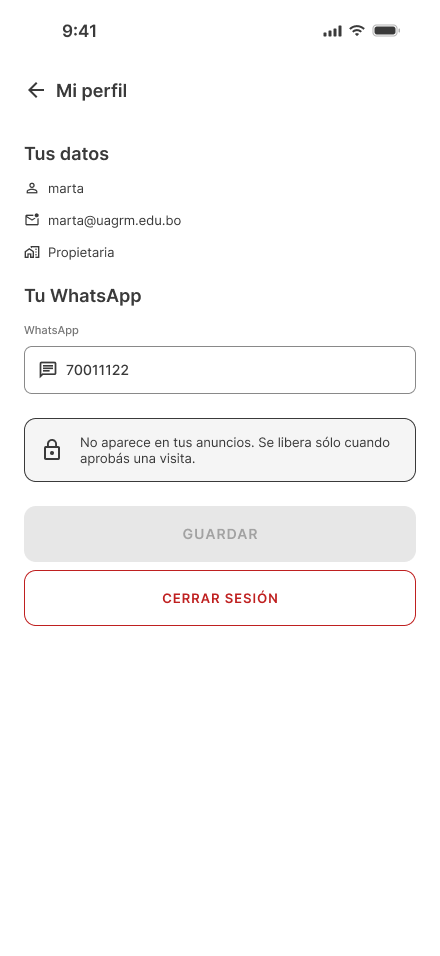
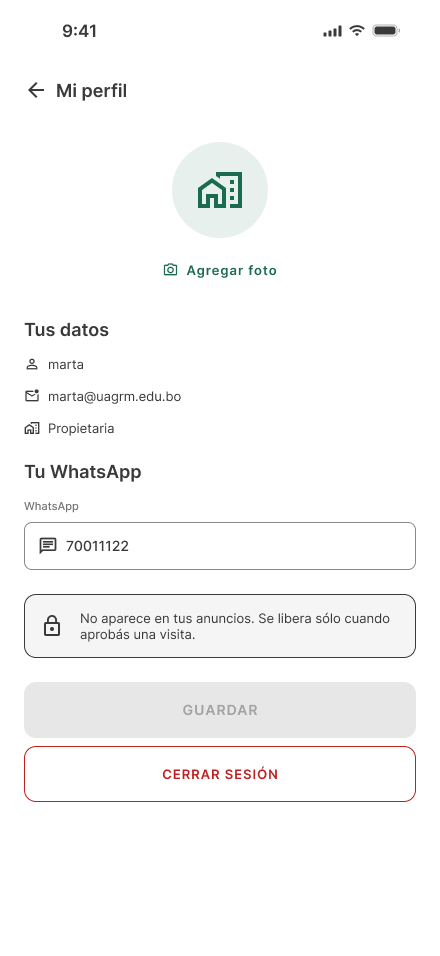
docs: pantallas nuevas en tres flujos, láminas y documentos al día
- Acceso (flujo-v0.3): Mi perfil con la foto y la 12 Cambiar foto; la
  tabla de las tres filas y lo que queda pendiente (quién más ve la foto).
- Inquilina (flujo-v0.2): Estado de solicitudes (08), Solicitud rechazada
  (10), Sin solicitudes (12) y Sin resultados (04). La fila se renumera por
  momento: cada pantalla vacía va al lado de la que la origina.
- Gestión de solicitudes (flujo-v0.4): Solicitud cerrada (04), la bandeja
  con una cerrada, y Sin solicitudes pasa a ser la 05. La nota del WhatsApp
  ya no está en la rechazada ni en la cerrada.
- wireframes/: las PNG nuevas y las renumeradas, exportadas de Figma a
  440 × 956, con sus láminas y READMEs.
- README: conteos al día (12, 12 y 6 pantallas).

diff --git a/flujo/flujo-v0.3.md b/flujo/flujo-v0.3.md
@@ -44,13 +44,15 @@ flowchart TD
     D -->|Buscar| P9["<b>09.</b> Inicio con 2 módulos"]
     P8 -->|Toca su tarjeta| M["<b>10 / 11.</b> Mi perfil"]
     P9 -->|Toca su tarjeta| M
+    M -->|Agregar foto| FT["<b>12.</b> Cámara o galería<br/>y la foto sube"]
+    FT --> M
 
     classDef paso fill:#d9ead3,stroke:#38761d,color:#000
     classDef error fill:#f4cccc,stroke:#cc0000,color:#000
     classDef borde fill:#c9daf8,stroke:#1155cc,color:#000
     classDef otro fill:#fff2cc,stroke:#bf9000,color:#000
 
-    class L1,O1,O2,O3,R1,R2,P8,P9,M paso
+    class L1,O1,O2,O3,R1,R2,P8,P9,M,FT paso
     class E1 error
     class S,F borde
     class A,L2,D otro
@@ -73,7 +75,8 @@ Los números son los de las pantallas de la fila Principal en Figma.
 | 05 | Elige *Busco dónde alquilar* o *Quiero publicar* | Hasta que no elija, **el botón está apagado** | Es la decisión que define toda la app |
 | 06 / 07 | Completa usuario, **correo** y contraseña | Si eligió publicar, **aparece el campo de WhatsApp** con el aviso de que no se publica | El correo es con lo que se recupera la cuenta; el WhatsApp, el dato que el producto existe para proteger (evidencia 9) |
 | 08 / 09 | — | Inicio con **tres** módulos si publica, **dos** si busca | Acá empiezan los flujos v0.1 y v0.2 |
-| 10 / 11 | Toca su tarjeta de perfil | **Mi perfil**: usuario, correo y rol; la propietaria además cambia su WhatsApp. Ahí vive *Cerrar sesión* | Si Marta cambia de número, cada visita que apruebe daría uno que ya no sirve |
+| 10 / 11 | Toca su tarjeta de perfil | **Mi perfil**: su foto (o el ícono de su rol), usuario, correo y rol; la propietaria además cambia su WhatsApp. Ahí vive *Cerrar sesión* | Si Marta cambia de número, cada visita que apruebe daría uno que ya no sirve |
+| 12 | Toca *Agregar foto* | Una hoja con *Sacar una foto* y *Elegir de la galería*; si ya tiene una, también *Quitar foto*. Mientras sube se ve la elegida, y después aparece en la tarjeta del inicio | Es opcional: sin foto se ve el ícono del rol. Se guarda **sin la ubicación** donde se sacó, que en esta app suele ser la casa de la persona |
 
 **El paso 05 es el momento clave.** No es un campo más de un formulario: es la
 bifurcación del producto. Por eso se eligen las dos opciones explicadas con lo
@@ -90,9 +93,9 @@ contrario de lo que decide el paso 05.
 
 | Fila | Pantallas | Qué muestra |
 |---|---|---|
-| Principal | 11 | Cada pantalla en su estado normal, con los formularios vacíos |
-| Happy Path | 14 | Cuatro historias completas —entrar, recuperar la contraseña, crear cuenta (las dos) y cambiar el WhatsApp—, cada acción con el botón pulsado y su resultado |
-| Validaciones | 7 | Los errores: datos incorrectos, el enlace vencido, rol sin elegir, datos con error (usuario o correo ya tomados), sin conexión, WhatsApp incompleto y no se pudo guardar |
+| Principal | 12 | Cada pantalla en su estado normal, con los formularios vacíos y sin foto |
+| Happy Path | 19 | Cinco historias completas —entrar, recuperar la contraseña, crear cuenta (las dos), cambiar el WhatsApp y la foto (subirla, verla en el inicio y quitarla)—, cada acción con el botón pulsado y su resultado |
+| Validaciones | 10 | Los errores: datos incorrectos, el enlace vencido, rol sin elegir, datos con error (usuario o correo ya tomados), sin conexión, WhatsApp incompleto, no se pudo guardar, la foto que no sube, la que el servidor rechaza y la cámara que no abre |
 
 > **Diferencia con el código, a la fecha.** En Figma, *Elegir rol · sin elegir*
 > muestra debajo del botón apagado el motivo *"Elegí si vas a buscar o a
@@ -106,6 +109,9 @@ contrario de lo que decide el paso 05.
   si no, quien agarre el teléfono desbloqueado cambia el correo y después usa
   *recuperar contraseña* para quedarse con la cuenta.
 - **Cambiar de rol** sin crear otra cuenta.
+- **Que la otra parte vea la foto.** Hoy la ve sólo su dueña, en Mi perfil y en
+  el inicio. Mostrársela a quien pide una visita, o a quien publica, es entregar
+  un dato personal más antes de la aprobación: la decisión está pendiente.
 
 ---
 

diff --git a/wireframes/flujo-v0.2-inquilina/README.md b/wireframes/flujo-v0.2-inquilina/README.md
@@ -3,33 +3,49 @@
 **Integrantes:** Gabriel Mamani Sandoval, Daniel Joaquin Mamani Peña
 **Flujo:** [`flujo/flujo-v0.2.md`](../../flujo/flujo-v0.2.md) · **Figma:** página *Flujos*, sección *Flujo v0.3 — Inquilina*
 
-Ocho pantallas de 440 × 956, exportadas de la fila **Principal** del archivo de
+Doce pantallas de 440 × 956, exportadas de la fila **Principal** del archivo de
 Figma. Los caminos completos (*Happy Path*) y los errores (*Validaciones*) están
 en las otras dos filas de la misma sección.
 
-![Las ocho pantallas del flujo](flujo-completo.png)
+![Las doce pantallas del flujo](flujo-completo.png)
 
 | # | Archivo | Momento de la tarea |
 |---|---|---|
 | 01 | [`01 Inicio.png`](01%20Inicio.png) | Entra y elige qué va a hacer |
 | 02 | [`02 Buscar.png`](02%20Buscar.png) | Pone sus filtros: precio, tipo, mascotas, minutos |
 | 03 | [`03 Resultados.png`](03%20Resultados.png) | Ve los resultados ordenados por cercanía |
-| 04 | [`04 Anuncio.png`](04%20Anuncio.png) | **Decide si le sirve o lo descarta** |
-| 05 | [`05 Solicitar visita.png`](05%20Solicitar%20visita.png) | Acepta las condiciones y pide la visita |
-| 06 | [`06 Solicitud enviada.png`](06%20Solicitud%20enviada.png) | Queda a la espera de la respuesta |
-| 07 | [`07 Contacto liberado.png`](07%20Contacto%20liberado.png) | El propietario aprobó: aparece el contacto |
-| 08 | [`08 Solicitud cerrada.png`](08%20Solicitud%20cerrada.png) | El cuarto se alquiló mientras esperaba |
+| 04 | [`04 Sin resultados.png`](04%20Sin%20resultados.png) | Ningún cuarto cumple: lo dice y sugiere ampliar |
+| 05 | [`05 Anuncio.png`](05%20Anuncio.png) | **Decide si le sirve o lo descarta** |
+| 06 | [`06 Solicitar visita.png`](06%20Solicitar%20visita.png) | Acepta las condiciones y pide la visita |
+| 07 | [`07 Solicitud enviada.png`](07%20Solicitud%20enviada.png) | Queda a la espera de la respuesta |
+| 08 | [`08 Estado de solicitudes.png`](08%20Estado%20de%20solicitudes.png) | Vuelve desde el Inicio a ver en qué quedó cada una |
+| 09 | [`09 Contacto liberado.png`](09%20Contacto%20liberado.png) | El propietario aprobó: aparece el contacto |
+| 10 | [`10 Solicitud rechazada.png`](10%20Solicitud%20rechazada.png) | El propietario dijo que no |
+| 11 | [`11 Solicitud cerrada.png`](11%20Solicitud%20cerrada.png) | El cuarto se alquiló mientras esperaba |
+| 12 | [`12 Sin solicitudes.png`](12%20Sin%20solicitudes.png) | Todavía no pidió ninguna visita |
 
-## Cómo leer la 04
+Cada pantalla que no tiene nada para mostrar va al lado de la que la origina:
+*Sin resultados* después de *Resultados*, y *Sin solicitudes* al final de lo que
+sale de *Estado de solicitudes*.
+
+## Cómo leer la 05
 
 Es la pantalla que decide el producto, y ya incluye la corrección que salió de
 la prueba con una usuaria (ver [`docs/decision-clase-05.md`](../../docs/decision-clase-05.md)):
 el **precio final** domina, los servicios incluidos van pegados a él —también el
 que *no* está incluido, que fue lo que obligó a la usuaria a preguntar *"¿cuánto
-es con luz?"*— y **no hay ningún contacto**: el teléfono recién aparece en la 07,
+es con luz?"*— y **no hay ningún contacto**: el teléfono recién aparece en la 09,
 después de la aprobación.
 
-## La 08, nueva con el flujo v0.5
+## Cómo leer la 08
+
+Es la puerta de *Estado de solicitudes*, el segundo módulo del Inicio. Cada
+tarjeta dice qué anuncio, cuándo la mandó y **en qué quedó**, con la misma
+etiqueta de color que ve Marta del otro lado. Las más nuevas van primero, y
+tocar una abre su estado: la 07 si sigue pendiente, la 09, la 10 o la 11 si ya
+se resolvió. Sin solicitudes, la 12 lo dice en vez de mostrar una lista vacía.
+
+## La 11, nueva con el flujo v0.5
 
 Antes, si Marta marcaba el cuarto como alquilado, la solicitud de Andrea quedaba
 *pendiente* para siempre: la evidencia 5 (*"uno ya estaba alquilado"*) pasando

diff --git a/README.md b/README.md
@@ -41,15 +41,15 @@ El proceso de búsqueda y oferta de alquileres genera una enorme pérdida de tie
 |---|---|
 | [Persona — Andrea](persona/persona-v0.2.md) | Estudiante de provincia, con un gato |
 | [App map](appmap/appmap-v0.2.md) | Mapa completo: los dos lados y dónde se enganchan |
-| [Flujo](flujo/flujo-v0.2.md) | Buscar, ver anuncio y solicitar visita |
-| [**Pantallas**](wireframes/flujo-v0.2-inquilina/flujo-completo.png) | Las 8 pantallas en una lámina — se ven sin abrir Figma |
+| [Flujo](flujo/flujo-v0.2.md) | Buscar, ver anuncio, solicitar visita y seguir en qué quedó |
+| [**Pantallas**](wireframes/flujo-v0.2-inquilina/flujo-completo.png) | Las 12 pantallas en una lámina — se ven sin abrir Figma |
 
 ### Flujo v0.3 — Entrar con el rol correcto 🟦
 
 | Documento | Contenido |
 |---|---|
-| [Flujo](flujo/flujo-v0.3.md) | Ingresar, recuperar la contraseña, crear cuenta eligiendo el rol y Mi perfil |
-| [**Pantallas**](wireframes/flujo-v0.3-acceso/flujo-completo.png) | Las 11 pantallas en una lámina — se ven sin abrir Figma |
+| [Flujo](flujo/flujo-v0.3.md) | Ingresar, recuperar la contraseña, crear cuenta eligiendo el rol y Mi perfil con su foto |
+| [**Pantallas**](wireframes/flujo-v0.3-acceso/flujo-completo.png) | Las 12 pantallas en una lámina — se ven sin abrir Figma |
 
 Es el único flujo que las dos personas recorren igual, y el que explica por qué
 la pantalla de Inicio les muestra cosas distintas.
@@ -59,7 +59,7 @@ la pantalla de Inicio les muestra cosas distintas.
 | Documento | Contenido |
 |---|---|
 | [Flujo](flujo/flujo-v0.4.md) | Responder las solicitudes: el WhatsApp se libera sólo a quien Marta aprueba |
-| [**Pantallas**](wireframes/flujo-v0.4-solicitudes/flujo-completo.png) | Las 5 pantallas en una lámina — se ven sin abrir Figma |
+| [**Pantallas**](wireframes/flujo-v0.4-solicitudes/flujo-completo.png) | Las 6 pantallas en una lámina — se ven sin abrir Figma |
 
 ### Flujo v0.5 — Cerrar el anuncio cuando se alquila 🟦
 
@@ -81,9 +81,9 @@ Marta por un cuarto que ya alquiló.
 |---|---|
 | [Lenguaje visual](wireframes/_lenguaje-visual.md) | Las reglas de los primeros wireframes en escala de grises (etapa anterior al sistema visual) |
 | [Pantallas del flujo v0.1](wireframes/flujo-v0.1-propietario/README.md) | Las 3 pantallas de la propietaria que publica |
-| [Pantallas del flujo v0.2](wireframes/flujo-v0.2-inquilina/README.md) | Las 8 pantallas de la inquilina |
-| [Pantallas del flujo v0.3](wireframes/flujo-v0.3-acceso/README.md) | Las 11 pantallas del acceso y la cuenta |
-| [Pantallas del flujo v0.4](wireframes/flujo-v0.4-solicitudes/README.md) | Las 5 pantallas de la gestión de solicitudes |
+| [Pantallas del flujo v0.2](wireframes/flujo-v0.2-inquilina/README.md) | Las 12 pantallas de la inquilina |
+| [Pantallas del flujo v0.3](wireframes/flujo-v0.3-acceso/README.md) | Las 12 pantallas del acceso y la cuenta |
+| [Pantallas del flujo v0.4](wireframes/flujo-v0.4-solicitudes/README.md) | Las 6 pantallas de la gestión de solicitudes |
 | [Pantallas del flujo v0.5](wireframes/flujo-v0.5-cerrar-anuncio/README.md) | Las 3 pantallas de cerrar el anuncio |
 | [**Decisión de diseño**](docs/decision-clase-05.md) | Jerarquía, layout y espaciado: antes, cambio, prueba con usuaria y siguiente paso |
 | [**Componente y estados**](docs/decision-clase-06.md) | El botón principal como pieza reutilizable, con sus cuatro estados |

diff --git a/flujo/flujo-v0.4.md b/flujo/flujo-v0.4.md
@@ -20,7 +20,7 @@
 flowchart TD
     S([Entra a Gestionar solicitudes]) --> A{"¿Tiene solicitudes?"}
 
-    A -->|No| V["<b>4.</b> Aún no tenés<br/>solicitudes"]
+    A -->|No| V["<b>5.</b> Aún no tenés<br/>solicitudes"]
     A -->|Sí| B["<b>0.</b> Bandeja<br/>pendientes primero"]
 
     B -->|Abre una o toca Aprobar| D["<b>1.</b> Ve el anuncio, lo que aceptó<br/>y el aviso del WhatsApp"]
@@ -29,6 +29,7 @@ flowchart TD
     D --> C{"¿Aprueba?"}
     C -->|Sí| AP["<b>2.</b> Aprobada<br/>contacto liberado a esa persona"]
     C -->|No| R["<b>3.</b> Rechazada y cerrada<br/>no se abre conversación"]
+    B -->|Abre una que se cerró| CE["<b>4.</b> Cerrada<br/>el cuarto ya se alquiló"]
 
     AP --> F2[["Flujo v0.2 · paso 6<br/>Andrea recibe el contacto"]]
     AP -->|Volver a la bandeja| B
@@ -41,7 +42,7 @@ flowchart TD
 
     class B,D,AP paso
     class R error
-    class S,V,F2 borde
+    class S,V,F2,CE borde
     class A,C otro
 ```
 
@@ -57,7 +58,8 @@ flowchart TD
 | 1 | Abre una solicitud, o toca *Aprobar* en su tarjeta | Muestra el anuncio, **las condiciones que esa persona ya aceptó** y, antes del botón, *"Esta persona va a ver tu WhatsApp. Sólo ella."* | No repite las mismas condiciones a quince personas (evidencia 7), y sabe a quién le da el número antes de darlo |
 | 2 | Toca *Aprobar y liberar mi WhatsApp* | La marca **aprobada** y dice *"Contacto liberado a andrea"* | El WhatsApp es el dato que el producto existe para proteger (evidencia 9) |
 | 3 | Toca *Rechazar* | La marca **rechazada y cerrada**, sin pedir un motivo | Rechazar no puede abrir la conversación que Marta quiere evitar |
-| 4 | — | Si no hay ninguna, lo dice: *"Aún no tenés solicitudes"* | Una bandeja vacía sin explicación parece rota |
+| 4 | Abre una que dice *Cerrada* | El pie explica que se cerró sola porque marcó el cuarto como alquilado, y que se le avisó a esa persona | Sin esto, las solicitudes de un cuarto ya alquilado parecían seguir esperando (flujo v0.5) |
+| 5 | — | Si no hay ninguna, lo dice: *"Aún no tenés solicitudes"* | Una bandeja vacía sin explicación parece rota |
 
 **El paso 1 es el momento clave.** Aprobar es lo único irreversible del flujo:
 una vez liberado, el número ya lo tiene esa persona. Por eso *Aprobar* en la
@@ -65,9 +67,16 @@ tarjeta no aprueba, abre el detalle, y el botón dice lo que hace —*Aprobar y
 liberar mi WhatsApp*— en vez de un *Aprobar* a secas. Rechazar sí se resuelve
 desde la tarjeta, porque no libera nada.
 
-**Las pantallas 1, 2 y 3 son la misma.** Arriba nunca cambia: el anuncio, las
-condiciones y el aviso. Cambia sólo el bloque de la decisión, así Marta no
-pierde de vista a quién le está respondiendo.
+**Las pantallas 1 a 4 son la misma.** Arriba nunca cambia: el anuncio y las
+condiciones. Cambia sólo el bloque de la decisión, así Marta no pierde de vista
+a quién le está respondiendo. El aviso del WhatsApp está mientras decide y en la
+aprobada; en la rechazada y la cerrada no, porque ya no es cierto: esa persona
+no va a ver nada.
+
+**Los errores (fila Validaciones en Figma).** La bandeja que no carga lo dice
+—*"No pudimos cargar tus solicitudes"*, con qué hacer y *Reintentar*— en vez de
+mostrarse vacía, y una solicitud que ya no está dice *"Esta solicitud ya no está
+disponible"* con una salida a la vista: *Volver a la bandeja*.
 
 ---
 

diff --git a/wireframes/flujo-v0.3-acceso/README.md b/wireframes/flujo-v0.3-acceso/README.md
@@ -3,12 +3,13 @@
 **Integrantes:** Gabriel Mamani Sandoval, Daniel Joaquin Mamani Peña
 **Flujo:** [`flujo/flujo-v0.3.md`](../../flujo/flujo-v0.3.md) · **Figma:** página *Flujos*, sección *Flujo v0.1 — Acceso*
 
-Once pantallas de 440 × 956, exportadas de la fila **Principal** del archivo de
-Figma: cada pantalla del flujo en su estado normal, con los formularios vacíos.
+Doce pantallas de 440 × 956, exportadas de la fila **Principal** del archivo de
+Figma: cada pantalla del flujo en su estado normal, con los formularios vacíos y
+sin foto de perfil.
 Los caminos completos con los datos puestos (*Happy Path*) y los errores
 (*Validaciones*) están en las otras dos filas de la misma sección.
 
-![Las once pantallas del flujo](flujo-completo.png)
+![Las doce pantallas del flujo](flujo-completo.png)
 
 ## Las pantallas, en el orden en que pasan
 
@@ -23,12 +24,13 @@ Los caminos completos con los datos puestos (*Happy Path*) y los errores
 | 07 | [`07 Crear cuenta - inquilina.png`](07%20Crear%20cuenta%20-%20inquilina.png) | Lo mismo, sin WhatsApp |
 | 08 | [`08 Adentro - propietaria.png`](08%20Adentro%20-%20propietaria.png) | Cae con **tres** módulos |
 | 09 | [`09 Adentro - inquilina.png`](09%20Adentro%20-%20inquilina.png) | Cae con **dos** |
-| 10 | [`10 Mi perfil - propietaria.png`](10%20Mi%20perfil%20-%20propietaria.png) | Sus datos, su WhatsApp editable y la salida |
-| 11 | [`11 Mi perfil - inquilina.png`](11%20Mi%20perfil%20-%20inquilina.png) | Sus datos y la salida: no tiene nada que proteger |
+| 10 | [`10 Mi perfil - propietaria.png`](10%20Mi%20perfil%20-%20propietaria.png) | Su foto, sus datos, su WhatsApp editable y la salida |
+| 11 | [`11 Mi perfil - inquilina.png`](11%20Mi%20perfil%20-%20inquilina.png) | Su foto, sus datos y la salida: no tiene nada que proteger |
+| 12 | [`12 Cambiar foto.png`](12%20Cambiar%20foto.png) | Toca *Agregar foto*: cámara o galería |
 
 **Recuperar la contraseña va pegado a Ingresar** porque sale de ahí: es lo que
-pasa cuando no se puede entrar. Mi perfil va al final porque pasa después de
-estar adentro.
+pasa cuando no se puede entrar. Mi perfil y su foto van al final porque pasan
+después de estar adentro.
 
 ## Cómo leer la 05
 
@@ -44,6 +46,19 @@ tiene algo que proteger —su WhatsApp, lo único editable, con la promesa de qu
 no aparece en sus anuncios—. Andrea no publica: le quedan sus datos y la salida.
 *Cerrar sesión* vive acá y no en el inicio, para que una salida que no se
 deshace no quede a un toque de la primera pantalla.
+
+La foto va arriba y es lo único que las dos pueden cambiar. Sin foto, el
+círculo muestra el ícono del rol, el mismo de la tarjeta del inicio: una cuenta
+nueva no se ve rota ni vacía.
+
+## Cómo leer la 12
+
+La hoja sube desde abajo con dos opciones y una salida visible, *Cancelar*: no
+hay que adivinar que se cierra tocando afuera. *Quitar foto* no aparece acá
+porque todavía no hay nada que quitar; aparece en rojo cuando ya hay una (fila
+Happy Path, pantalla 18). Subir, verla en el inicio y quitarla están en el
+Happy Path; la foto que no sube, la que el servidor rechaza y la cámara que no
+abre, en Validaciones.
 
 > **Numeración.** En el repositorio este es el flujo v0.3. En Figma está
 > primero, porque es por donde se entra a todo lo demás.

diff --git a/flujo/flujo-v0.2.md b/flujo/flujo-v0.2.md
@@ -19,7 +19,7 @@ flowchart TD
     P3 --> P4["<b>4.</b> Toca Solicitar visita<br/>y acepta las condiciones"]
     P4 --> P5["<b>5.</b> Queda en Solicitud enviada"]
     P5 -.espera.-> Q{{"El propietario aprueba"}}
-    Q -.-> P6["<b>6.</b> Le llega la notificación<br/>y se libera el contacto"]
+    Q -.-> P6["<b>6.</b> En Estado de solicitudes<br/>la ve Aprobada y se libera el contacto"]
     P6 --> P7["<b>7.</b> Abre WhatsApp<br/>y coordina la visita"]
     P7 --> F([Tarea cumplida])
 
@@ -45,7 +45,7 @@ flowchart TD
 | 3 | Abre un anuncio y lo lee | Muestra foto con fecha, precio final, servicios, mascotas y "9 min caminando a la UAGRM". **Ningún contacto visible** | Pasos 2 a 5 |
 | 4 | Toca *Solicitar visita* y marca *Acepto estas condiciones* | Envía la solicitud al propietario | — |
 | 5 | — | Muestra *Solicitud enviada* | — |
-| 6 | — | Notifica *Aprobada* y muestra el contacto | Ciclo de vida: Marta aprueba |
+| 6 | Entra a *Estado de solicitudes* desde el Inicio | Cada solicitud con su etiqueta; la suya dice *Aprobada* y al tocarla aparece el contacto | Ciclo de vida: Marta aprueba |
 | 7 | Toca *Abrir WhatsApp* | Abre el chat para coordinar | — |
 
 **El paso 3 es el momento clave:** ahí decide si sigue o descarta, con los cuatro datos que hoy le faltan. Si no le sirve, vuelve al paso 2 sin haber gastado nada.
@@ -54,11 +54,24 @@ La última columna es la que demuestra que los dos flujos son uno solo: **ningun
 
 **El cuarto se alquila mientras ella espera:** resuelto con el
 [flujo v0.5](flujo-v0.5.md). Cuando Marta lo marca como alquilado, la solicitud de
-Andrea se cierra sola y ella ve *"El cuarto ya se alquiló"* (pantalla 08) en vez
+Andrea se cierra sola y ella ve *"El cuarto ya se alquiló"* (pantalla 11) en vez
 de esperar una respuesta que nunca iba a llegar.
 
-**Caminos alternos todavía sin dibujar:** sin resultados, y solicitud rechazada o
-sin respuesta.
+**Estado de solicitudes (pantallas 08 a 12).** No hay notificaciones todavía:
+Andrea se entera volviendo al Inicio y entrando a *Estado de solicitudes*, donde
+cada solicitud tiene su etiqueta —*Pendiente*, *Aprobada*, *Rechazada* o
+*Cerrada*— y abre su estado. Rechazada (10) dice que el propietario dijo que no y
+la manda a buscar otros anuncios; si no pidió ninguna, la 12 lo dice en vez de
+mostrar una lista vacía. Sus errores —la lista que no carga, el estado que no se
+actualiza y WhatsApp que no abre— están en la fila Validaciones de Figma.
+
+**Sin resultados (pantalla 04).** Si la búsqueda sale bien pero no hay ningún
+cuarto que cumpla, lo dice —*"No encontramos anuncios con esos filtros"*— y
+sugiere ampliar el precio o los minutos. Nunca se confunde con un error: si
+la búsqueda falla, la app lo dice y ofrece reintentar.
+
+**Camino alterno todavía sin dibujar:** la solicitud que queda sin respuesta
+(el propietario nunca contesta): hoy sigue *Pendiente*.
 
 ---
 

diff --git a/wireframes/flujo-v0.4-solicitudes/README.md b/wireframes/flujo-v0.4-solicitudes/README.md
@@ -3,20 +3,23 @@
 **Integrantes:** Gabriel Mamani Sandoval, Daniel Joaquin Mamani Peña
 **Flujo:** [`flujo/flujo-v0.4.md`](../../flujo/flujo-v0.4.md) · **Figma:** página *Flujos*, sección *Flujo v0.4 — Gestión de solicitudes*
 
-Cinco pantallas de 440 × 956, exportadas de la fila **Principal** del archivo de
+Seis pantallas de 440 × 956, exportadas de la fila **Principal** del archivo de
 Figma. Los caminos completos (*Happy Path*) y los errores (*Validaciones*) están
 en las otras dos filas de la misma sección.
 
-![Las cinco pantallas del flujo](flujo-completo.png)
+![Las seis pantallas del flujo](flujo-completo.png)
 
 | # | Archivo | Momento de la tarea |
 |---|---|---|
-| 00 | [`00 Gestionar solicitudes.png`](00%20Gestionar%20solicitudes.png) | La bandeja, con las pendientes primero |
+| 00 | [`00 Gestionar solicitudes.png`](00%20Gestionar%20solicitudes.png) | La bandeja, con las pendientes primero y después la más nueva |
 | 01 | [`01 Detalle de la solicitud.png`](01%20Detalle%20de%20la%20solicitud.png) | **Ve a quién le libera el WhatsApp antes de hacerlo** |
 | 02 | [`02 Solicitud aprobada.png`](02%20Solicitud%20aprobada.png) | Contacto liberado, sólo a esa persona |
 | 03 | [`03 Solicitud rechazada.png`](03%20Solicitud%20rechazada.png) | Rechazada y cerrada, sin abrir conversación |
-| 04 | [`04 Sin solicitudes.png`](04%20Sin%20solicitudes.png) | La bandeja vacía, dicha en vez de parecer rota |
+| 04 | [`04 Solicitud cerrada.png`](04%20Solicitud%20cerrada.png) | Se cerró sola: marcó el cuarto como alquilado (flujo v0.5) |
+| 05 | [`05 Sin solicitudes.png`](05%20Sin%20solicitudes.png) | La bandeja vacía, dicha en vez de parecer rota |
 
-**Las pantallas 01, 02 y 03 son la misma.** Arriba nunca cambia —el anuncio, lo
-que la persona aceptó y el aviso del WhatsApp—; cambia sólo el bloque de la
-decisión. Así Marta no pierde de vista a quién le está respondiendo.
+**Las pantallas 01 a 04 son la misma.** Arriba nunca cambia —el anuncio y lo que
+la persona aceptó—; cambia sólo el bloque de la decisión. Así Marta no pierde de
+vista a quién le está respondiendo. El aviso *"Esta persona va a ver tu
+WhatsApp. Sólo ella."* está mientras decide y en la aprobada; en la rechazada y
+la cerrada no, porque ya no es cierto.
